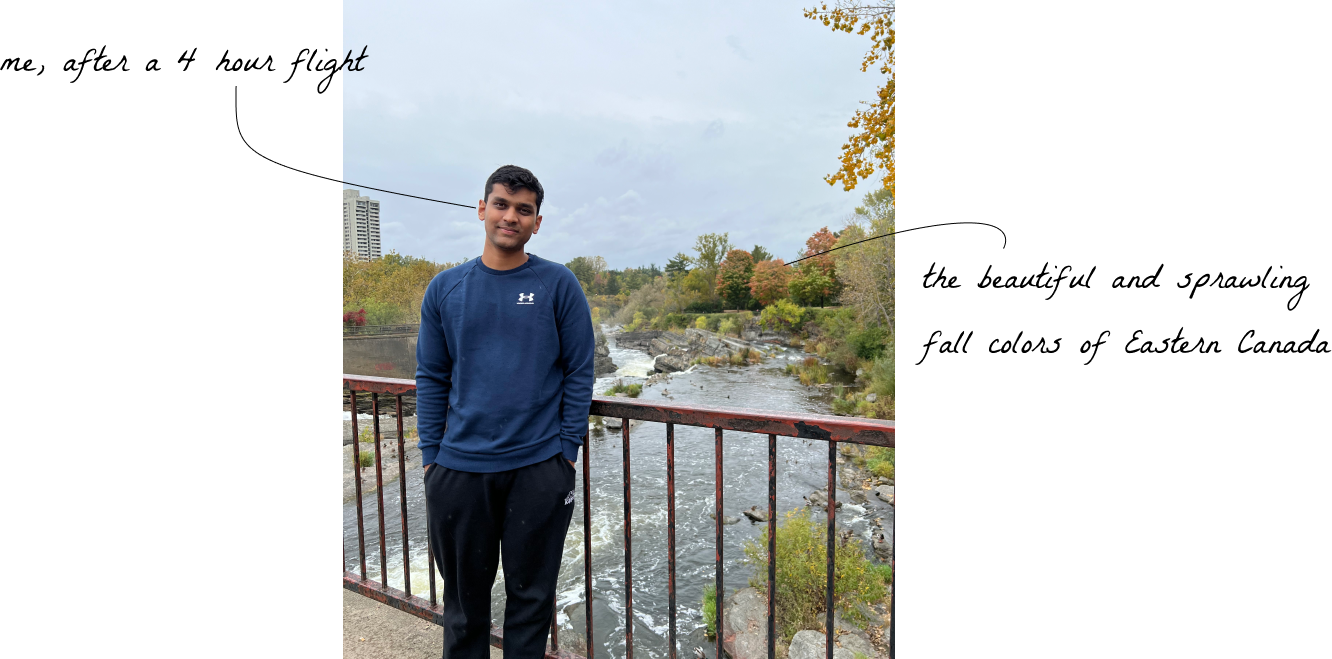
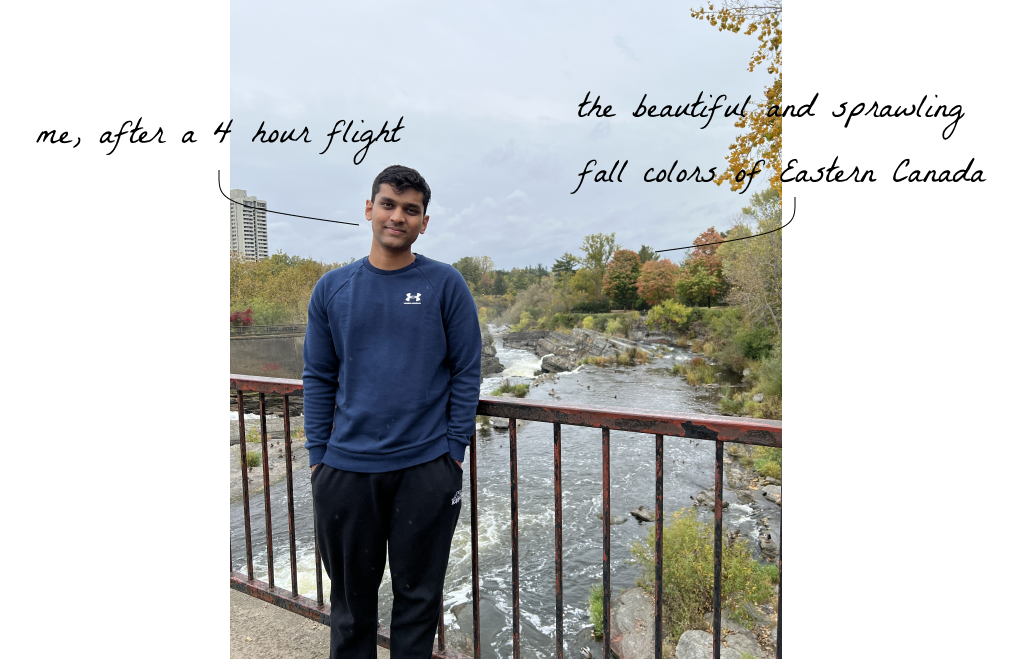
styling changes to aboutme

diff --git a/src/app/aboutme/page.tsx b/src/app/aboutme/page.tsx
@@ -1,13 +1,13 @@
-import { Bebas_Neue, Roboto} from "@next/font/google"
+import { Bebas_Neue, Roboto } from "@next/font/google";
 import Image from "next/image";
 import HogsBack from "../../../public/Hogs.png";
 import { Navbar } from "@/components/Navbar";
 import Link from "next/link";
 
 const bebas = Bebas_Neue({
-    subsets: ['latin'],
-    weight: '400',
-})
+  subsets: ["latin"],
+  weight: "400",
+});
 
 const roboto = Roboto({
   subsets: ["cyrillic"],
@@ -15,76 +15,87 @@ const roboto = Roboto({
 });
 
 export default function Home() {
-    return (
-      <main className={`${roboto.className} text-md lg:mx-96 md:mx-40`}>
-        <Navbar />
-        <p className={`${bebas.className} sm:text-4xl text-3xl mt-10 px-4`}>
-          {" "}
-          ABOUT ME{" "}
-        </p>
-        <div className="flex flex-row-reverse justify-around mt-10 flex-wrap">
-          {/* <Spotify link="https://open.spotify.com/track/1ijxFUEg4lVYjBETDb4cHW" /> */}
-          {/* <Image
+  return (
+    <main className={`${roboto.className} text-md md:mx-40`}>
+      <Navbar />
+      <p className={`${bebas.className} sm:text-4xl text-3xl mt-10 px-4`}>
+        {" "}
+        ABOUT ME{" "}
+      </p>
+      <div className="flex justify-around mt-10 flex-wrap">
+        {/* <Spotify link="https://open.spotify.com/track/1ijxFUEg4lVYjBETDb4cHW" /> */}
+        {/* <Image
             priority
             src={worldMap}
             alt="Map"
             className={`md:scale-50 scale-[0.5] m-6 -mb-2`}
           /> */}
-          <div className="px-4">
-            <Image priority src={HogsBack} alt="test" className="px-4" />
-            <p className=" text-slate-500 text-xs mb-4 text-center">
-              {" "}
-              Hog&apos;s Back Park, Ottawa{" "}
-            </p>
-            <p className="">
-              {" "}
-              My name is Raquib. I am a 5th year software engineering student at
-              the University of Alberta. I love tinkering with Algorithms,
-              Operating Systems, and Web Development. I have a lot of fun{" "}
-              <Link
-                href="https://devpost.com/software/proton-news"
-                className="underline"
-              >
-                {" "}
-                participating
-              </Link>{" "}
-              (and
-              <Link
-                href="https://devpost.com/software/inclusify-kd3uo9"
-                className="underline"
-              >
-                {" "}
-                winning!
-              </Link>
-              ) in hackathons{" "}
-            </p>
-            <br></br>
-            <p className="">
-              I have worked at
-              <Link
-                href="https://www.scotiabank.com/ca/en/personal.html"
-                className="underline"
-                target="blank"
-              >
-                {" "}
-                Scotiabank
-              </Link>{" "}
-              where I analyzed patterns in data to identify fraud, and have
-              worked at{" "}
-              <Link
-                href="https://www.insidedesk.com"
-                className="underline"
-                target="blank"
-              >
-                {" "}
-                InsideDesk
-              </Link>{" "}
-              where I build robust web architecture microservices to retrieve
-              insurance data.
-            </p>
-            <p className=""> I love hiking. I love snowboarding. I love </p>
+        <div className="px-4">
+          <div className="flex justify-center">
+            <Image
+              priority
+              src={HogsBack}
+              alt="test"
+              className="px-4 lg:scale-125 lg:mb-10"
+              height={300}
+            />
           </div>
+          <p className=" text-slate-500 text-xs mb-4 text-center">
+            {" "}
+            Hog&apos;s Back Park, Ottawa{" "}
+          </p>
+          <p className="">
+            {" "}
+            I&apos;m Raquib, a 5th year software engineering student at the
+            University of Alberta. I love tinkering with Algorithms, Operating
+            Systems, and Web Development. I have a lot of fun{" "}
+            <Link
+              href="https://devpost.com/software/proton-news"
+              className="underline"
+              target="blank"
+            >
+              {" "}
+              participating
+            </Link>{" "}
+            (and
+            <Link
+              href="https://devpost.com/software/inclusify-kd3uo9"
+              className="underline"
+              target="blank"
+            >
+              {" "}
+              winning!
+            </Link>
+            ) in hackathons.{" "}
+          </p>
+          <br></br>
+          <p className="">
+            I have worked at
+            <Link
+              href="https://www.scotiabank.com/ca/en/personal.html"
+              className="underline hover:text-red-600"
+              target="blank"
+            >
+              {" "}
+              Scotiabank
+            </Link>{" "}
+            where I analyzed patterns in data to identify fraud, and have worked
+            at{" "}
+            <Link
+              href="https://www.insidedesk.com"
+              className="underline hover:text-indigo-500"
+              target="blank"
+            >
+              {" "}
+              InsideDesk
+            </Link>{" "}
+            where I build robust web architecture microservices to retrieve
+            insurance data.
+          </p>
+          <br />
+          <p className=""> I love hiking. I love snowboarding. I love geography. Most of all, I love trying new things.  </p>
         </div>
-      </main>
-    );
+      </div>
+    </main>
+  );
 }

diff --git a/src/app/page.tsx b/src/app/page.tsx
@@ -38,7 +38,7 @@ export default async function Home() {
   let journey = ["journey", "journey", "journey", "journey", "journey", "journey", "राह", "سفر", "ಪ್ರಯಾಣ", "ప్రయాణం", "رحلة", "旅行", "여행", "путешествие", "voyage", "reise", "การเดินทาง", "resa", "seyahat", "যাত্ৰা"];
   journey = (await shuffle(journey));
   journey.push("journey");
-  return <main className={`${roboto.className} text-sm`}>
+  return <main className={`${roboto.className} text-md`}>
     < Navbar />
     <div className="sm:mx-40">
       <p className={`${bebas.className} mt-10 sm:mt-20 sm:text-4xl text-3xl text-center`}> I am a <span className="hover:underline decoration-slate-800/[0.33]"> software engineer </span> who likes working on interesting problems and building robust solutions<span className="animate-pulse"> . </span></p>

diff --git a/src/components/Navbar.tsx b/src/components/Navbar.tsx
@@ -1,17 +1,22 @@
 import Image from 'next/image';
 import signature from "../../public/Signature.svg";
 import { Links } from './Links';
+import Link from 'next/link';
 
 export function Navbar() {
-    return <>
-        <div className='flex justify-center mt-6'>
-            <Image 
-                priority
-                src={signature}
-                alt='test'
-                className='h-14 sm:h-20'
+    return (
+      <>
+        <div className="flex justify-center mt-6">
+          <Link href="/">
+            <Image
+              priority
+              src={signature}
+              alt="test"
+              className="h-14 sm:h-20"
             />
+          </Link>
         </div>
         <Links />
-    </>
+      </>
+    );
 }

diff --git a/src/components/GradientText.tsx b/src/components/GradientText.tsx
@@ -1,0 +1,12 @@
+import React from "react";
+
+export const AnimatedTextGradientTW: React.FC = () => {
+  return (
+    <span
+      className="animate-text-gradient bg-gradient-to-r from-[#b2a8fd] via-[#8678f9] to-[#c7d2fe] 
+    bg-[200%_auto] bg-clip-text text-transparent"
+    >
+      hello, animated text gradient
+    </span>
+  );
+};

diff --git a/tailwind.config.ts b/tailwind.config.ts
@@ -20,6 +20,18 @@ const config: Config = {
       }
     }
   },
+  extend: {
+    animation: {
+      "text-gradient": "text 1.5s linear infinite",
+    },
+    keyframes: {
+      text: {
+        to: {
+          backgroundPosition: "200% center",
+        },
+      },
+    },
+  },
   plugins: [],
 }
 export default config
